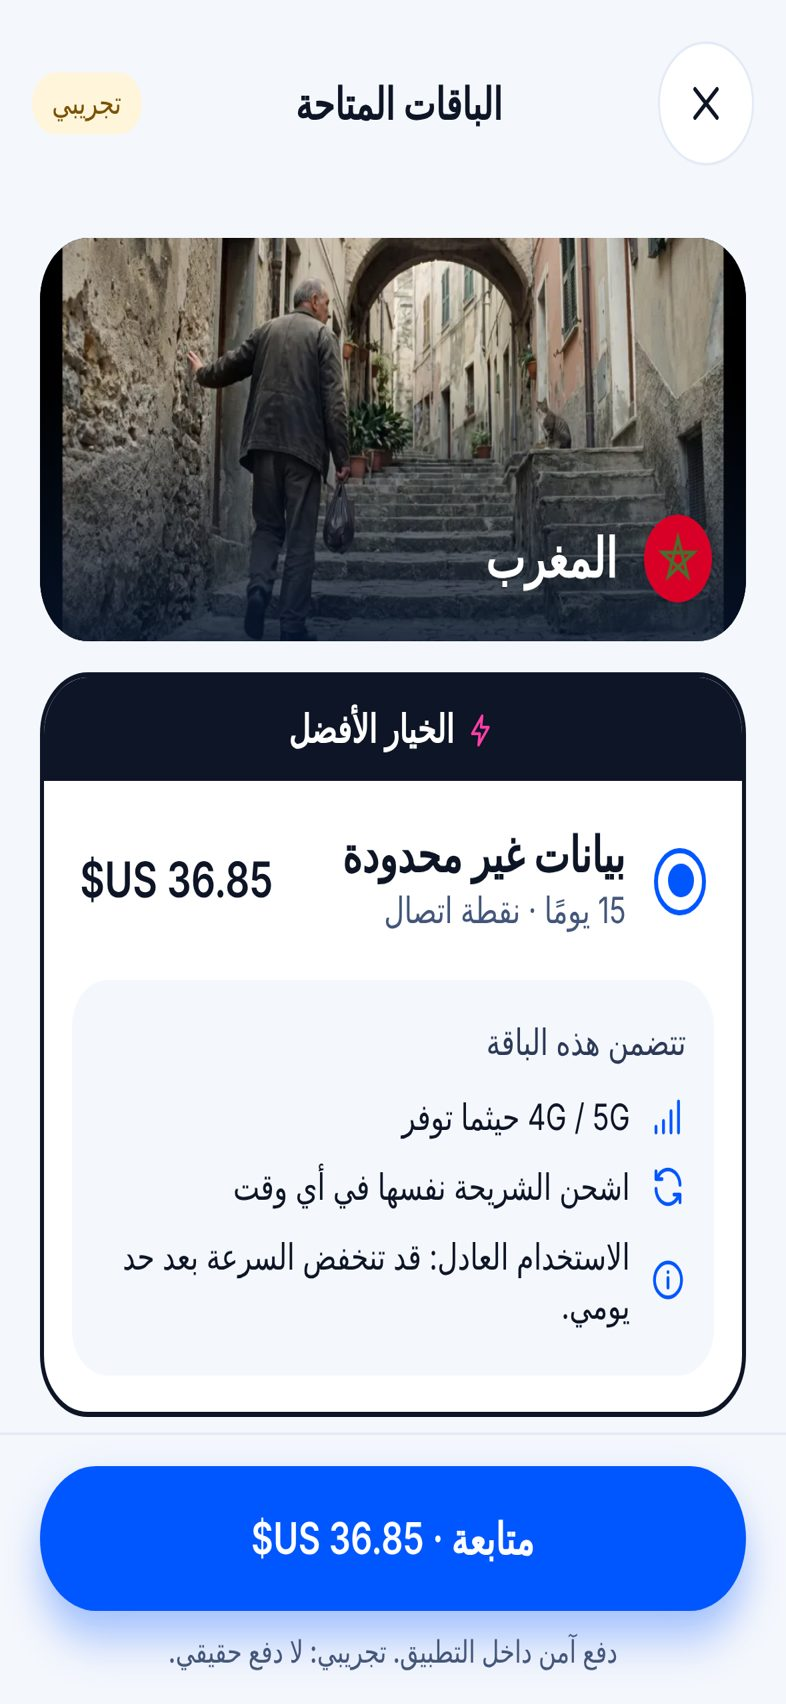
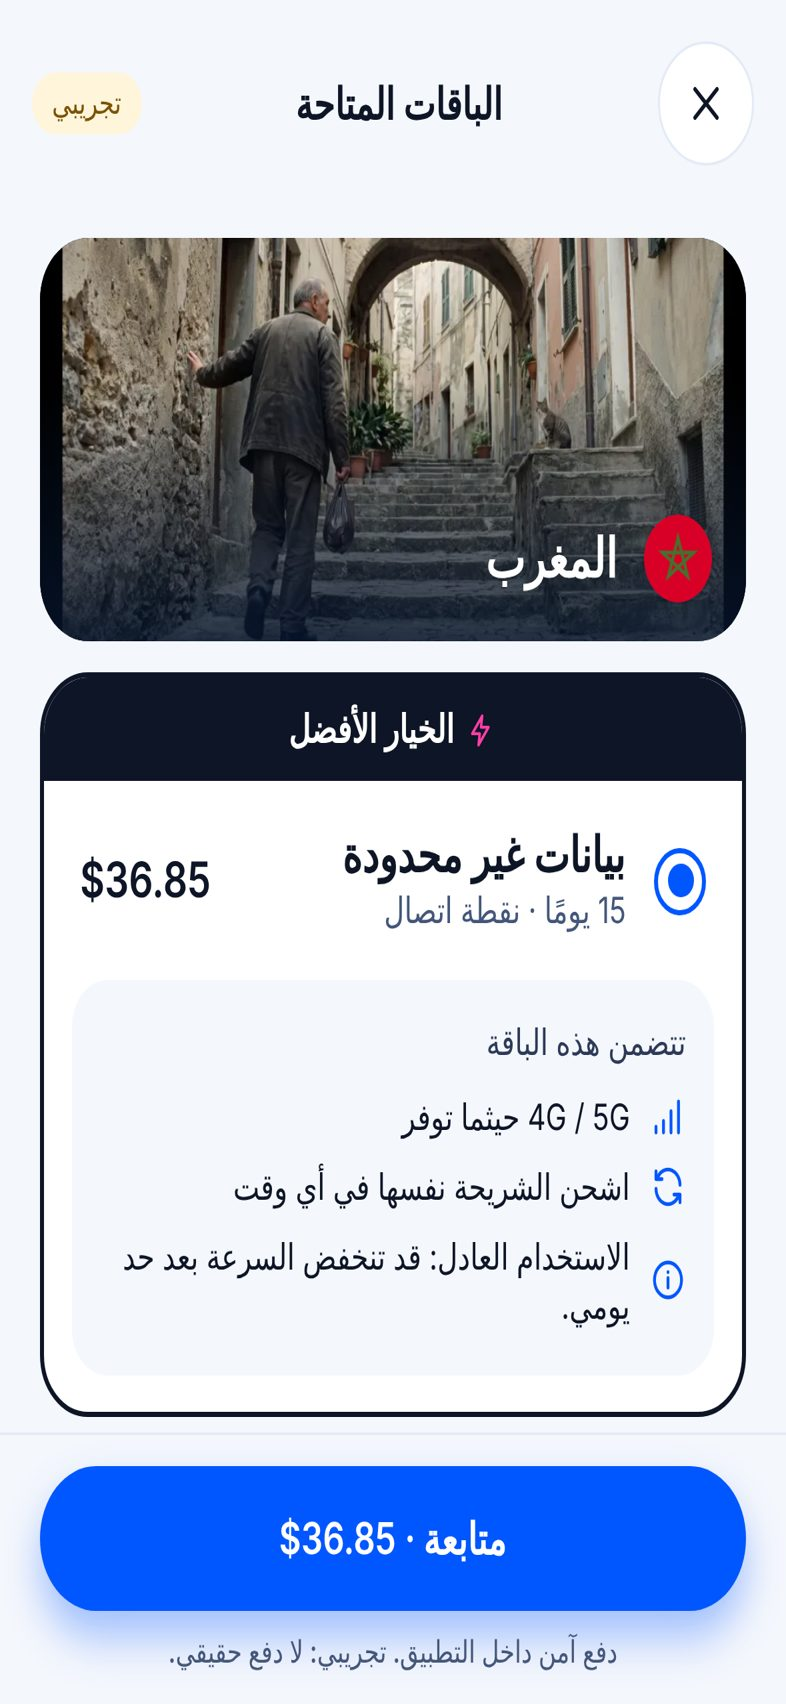
Mobile: fixes from the iPhone simulator run
Arabic prices and data amounts render left to right ($31.09, 1 GB), hero
decorations no longer cross the Arabic headline, a status-bar backdrop on
scrolling tab screens, checkout and order open as sheets without the extra top
gap, and Coming soon badges sit under the row title instead of squeezing it.

Claude-Session: https://claude.ai/code/session_01BJYGHvjHMu4dJcSGPHfxri

Changed region(s): [[0.3053, 0.8709, 0.6718, 0.9331], [0.1221, 0.4977, 0.3664, 0.5288]]

diff --git a/apps/mobile/src/app/(tabs)/help.tsx b/apps/mobile/src/app/(tabs)/help.tsx
@@ -14,10 +14,10 @@ export default function Help() {
     <Screen title={t.help.title}>
       <RowCard title={t.help.start} sub={t.help.startSub} leading={<IconBubble name="rocket" />} onPress={() => router.push({ pathname: "/guide", params: { focus: "steps" } })} />
       <RowCard title={t.help.center} leading={<IconBubble name="question" />} trailing={<Icon name="external" size={20} color={C.faint} />} onPress={() => web("/#faq")} />
-      <RowCard title={t.help.chat} leading={<IconBubble name="chat" />} trailing={<Badge text={t.common.soon} />} disabled />
+      <RowCard title={t.help.chat} leading={<IconBubble name="chat" />} badge={<Badge text={t.common.soon} />} trailing={<></>} disabled />
       <RowCard title={t.help.refund} sub={t.help.refundSub} leading={<IconBubble name="refund" />} trailing={<Icon name="external" size={20} color={C.faint} />} onPress={() => web("/terms#refunds")} />
       <RowCard title={t.help.network} sub={t.help.networkSub} leading={<IconBubble name="signal" />} onPress={() => router.push({ pathname: "/guide", params: { focus: "network" } })} />
-      <RowCard title={t.help.feedback} sub={t.help.feedbackSub} leading={<IconBubble name="flag" tone="pink" />} trailing={<Badge text={t.common.soon} />} disabled />
+      <RowCard title={t.help.feedback} sub={t.help.feedbackSub} leading={<IconBubble name="flag" tone="pink" />} badge={<Badge text={t.common.soon} />} trailing={<></>} disabled />
     </Screen>
   );
 }

diff --git a/apps/mobile/src/components/ui.tsx b/apps/mobile/src/components/ui.tsx
@@ -47,7 +47,7 @@ export function Card({ children, style }: { children: React.ReactNode; style?: S
 }
 
 /** Row card like a settings cell: leading visual, title/subtitle, trailing chevron or badge. */
-export function RowCard({ title, sub, leading, trailing, onPress, disabled, a11y }: { title: string; sub?: string; leading?: React.ReactNode; trailing?: React.ReactNode; onPress?: () => void; disabled?: boolean; a11y?: string }) {
+export function RowCard({ title, sub, leading, trailing, badge, onPress, disabled, a11y }: { title: string; sub?: string; leading?: React.ReactNode; trailing?: React.ReactNode; badge?: React.ReactNode; onPress?: () => void; disabled?: boolean; a11y?: string }) {
   const { rtl } = useI18n();
   return (
     <Tap onPress={disabled ? undefined : onPress} disabled={disabled} accessibilityRole="button" accessibilityLabel={a11y ?? (sub ? `${title}, ${sub}` : title)} accessibilityState={{ disabled: !!disabled }} style={[s.card, s.row]}>
@@ -55,6 +55,7 @@ export function RowCard({ title, sub, leading, trailing, onPress, disabled, a11y
       <View style={{ flex: 1 }}>
         <Txt v="h3">{title}</Txt>
         {!!sub && <Txt v="small" style={{ marginTop: 2 }}>{sub}</Txt>}
+        {!!badge && <View style={{ marginTop: 8 }}>{badge}</View>}
       </View>
       {trailing ?? <Icon name={rtl ? "chevronLeft" : "chevronRight"} size={20} color={C.faint} />}
     </Tap>

diff --git a/apps/mobile/src/app/order/[id].tsx b/apps/mobile/src/app/order/[id].tsx
@@ -1,6 +1,6 @@
 // Order confirmation: waits for provisioning, then shows the eSIM QR code and activation code.
 import { useEffect, useState } from "react";
-import { ActivityIndicator, ScrollView, StyleSheet, View } from "react-native";
+import { ActivityIndicator, Platform, ScrollView, StyleSheet, View } from "react-native";
 import { router, useLocalSearchParams } from "expo-router";
 import { SvgXml } from "react-native-svg";
 import QRCode from "qrcode";
@@ -40,7 +40,7 @@ export default function OrderScreen() {
   const esim = order?.items[0]?.esim;
 
   return (
-    <ScrollView style={{ flex: 1, backgroundColor: C.bg }} contentContainerStyle={{ padding: 20, paddingTop: insets.top + 32, paddingBottom: insets.bottom + 32, gap: 18 }}>
+    <ScrollView style={{ flex: 1, backgroundColor: C.bg }} contentContainerStyle={{ padding: 20, paddingTop: Platform.OS === "ios" ? 32 : insets.top + 32, paddingBottom: insets.bottom + 32, gap: 18 }}>
       <View style={{ alignItems: "center", gap: 12 }}>
         <IconBubble name={esim ? "check" : "sim"} tone={esim ? "green" : "blue"} size={68} />
         <Txt v="title" accessibilityRole="header" style={{ textAlign: "center" }}>{esim ? t.order.title : t.order.pending}</Txt>

diff --git a/apps/mobile/src/app/(tabs)/index.tsx b/apps/mobile/src/app/(tabs)/index.tsx
@@ -43,9 +43,9 @@ export default function Home() {
 
           {/* hero card */}
           <LinearGradient colors={["#0047D6", "#0057FF", "#39C6FF"]} start={{ x: 0, y: 0 }} end={{ x: 1, y: 1 }} style={s.hero}>
-            <View style={[s.orbit, rtl && { right: undefined, left: -60 }]} />
-            <View style={[s.dot, { top: 22, right: 70, backgroundColor: C.pink }]} />
-            <View style={[s.dot, { top: 64, right: 26, width: 6, height: 6, backgroundColor: "#fff" }]} />
+            <View style={[s.orbit, rtl && { right: undefined, left: -70, top: -78 }]} />
+            <View style={[s.dot, rtl ? { top: 14, left: 120 } : { top: 22, right: 70 }, { backgroundColor: C.pink }]} />
+            {!rtl && <View style={[s.dot, { top: 64, right: 26, width: 6, height: 6, backgroundColor: "#fff" }]} />}
             <View style={s.heroHead}><Logo size={30} /><Txt v="caption" style={{ color: "rgba(255,255,255,0.85)" }}>{t.home.kicker}</Txt></View>
             <Txt v="title" style={{ color: "#fff", marginTop: 16 }}>{t.home.title}</Txt>
             <Txt v="body" style={{ color: "rgba(255,255,255,0.88)", marginTop: 8 }}>{t.home.subtitle}</Txt>

diff --git a/apps/mobile/src/components/Screen.tsx b/apps/mobile/src/components/Screen.tsx
@@ -7,11 +7,15 @@ import { Txt } from "./ui";
 export function Screen({ title, children, header, ...p }: ScrollViewProps & { title?: string; header?: React.ReactNode }) {
   const insets = useSafeAreaInsets();
   return (
+    <View style={{ flex: 1, backgroundColor: C.bg }}>
     <ScrollView {...p} style={{ flex: 1, backgroundColor: C.bg }} contentContainerStyle={[s.content, { paddingTop: insets.top + 12, paddingBottom: insets.bottom + 120 }]} keyboardShouldPersistTaps="handled">
       {header}
       {!!title && <Txt v="display" accessibilityRole="header" style={{ fontSize: 36, lineHeight: 42, marginTop: 24, marginBottom: 20 }}>{title}</Txt>}
       <View style={{ gap: 12 }}>{children}</View>
     </ScrollView>
+      {/* Status-bar backdrop: scrolled cards slide under it instead of under the clock. */}
+      <View pointerEvents="none" style={{ position: "absolute", top: 0, left: 0, right: 0, height: insets.top, backgroundColor: "rgba(244,247,252,0.96)" }} />
+    </View>
   );
 }
 const s = StyleSheet.create({ content: { paddingHorizontal: 20 } });

diff --git a/apps/mobile/src/lib/catalog.ts b/apps/mobile/src/lib/catalog.ts
@@ -17,7 +17,9 @@ export const catalog = {
 };
 export type { Plan, DestinationSummary };
 
-export const formatPrice = (amount: number, currency: string, l: Locale) => new Intl.NumberFormat(intlLocale(l), { style: "currency", currency }).format(amount);
+/** In Arabic the price is shown as a left-to-right island ("$31.09"), not "US$" reordered by the RTL text. */
+export const formatPrice = (amount: number, currency: string, l: Locale) =>
+  l === "ar" ? `\u2066${new Intl.NumberFormat("en-US", { style: "currency", currency }).format(amount)}\u2069` : new Intl.NumberFormat(intlLocale(l), { style: "currency", currency }).format(amount);
 export const cheapest = (plans: Plan[]) => plans.reduce<Plan | null>((a, b) => (!a || b.price.amount < a.price.amount ? b : a), null);
 
 /** Display name for "JP", "region:europe" or "global". */

diff --git a/apps/mobile/src/app/checkout.tsx b/apps/mobile/src/app/checkout.tsx
@@ -44,7 +44,7 @@ export default function Checkout() {
 
   return (
     <KeyboardAvoidingView style={{ flex: 1, backgroundColor: C.bg }} behavior={Platform.OS === "ios" ? "padding" : undefined}>
-      <View style={[s.head, { paddingTop: insets.top + 8 }]}>
+      <View style={[s.head, { paddingTop: Platform.OS === "ios" ? 16 : insets.top + 8 }]}>
         <Tap onPress={() => router.back()} accessibilityRole="button" accessibilityLabel={t.common.back} style={s.round}><Icon name={rtl ? "chevronRight" : "chevronLeft"} size={22} /></Tap>
         <Txt v="h3" style={{ flex: 1, textAlign: "center" }}>{t.checkout.title}</Txt>
         <View style={{ width: 48 }} />

diff --git a/apps/mobile/src/app/_layout.tsx b/apps/mobile/src/app/_layout.tsx
@@ -41,8 +41,8 @@ function Root() {
         <Stack.Screen name="plans/[dest]" options={{ presentation: "modal" }} />
         <Stack.Screen name="signin" options={{ presentation: "modal" }} />
         <Stack.Screen name="guide" />
-        <Stack.Screen name="checkout" />
-        <Stack.Screen name="order/[id]" options={{ gestureEnabled: false }} />
+        <Stack.Screen name="checkout" options={{ presentation: "modal" }} />
+        <Stack.Screen name="order/[id]" options={{ presentation: "modal", gestureEnabled: false }} />
       </Stack>
     </View>
   );

diff --git a/apps/mobile/src/i18n/ar.ts b/apps/mobile/src/i18n/ar.ts
@@ -11,7 +11,7 @@ const ar: Dict = {
     "from": "ابتداءً من {price}",
     "countries": "{n} دولة",
     "days": "{n} يومًا",
-    "gb": "{n} GB",
+    "gb": "\u2066{n} GB\u2069",
     "unlimited": "غير محدود",
     "global": "عالمي",
     "soon": "قريبًا",
